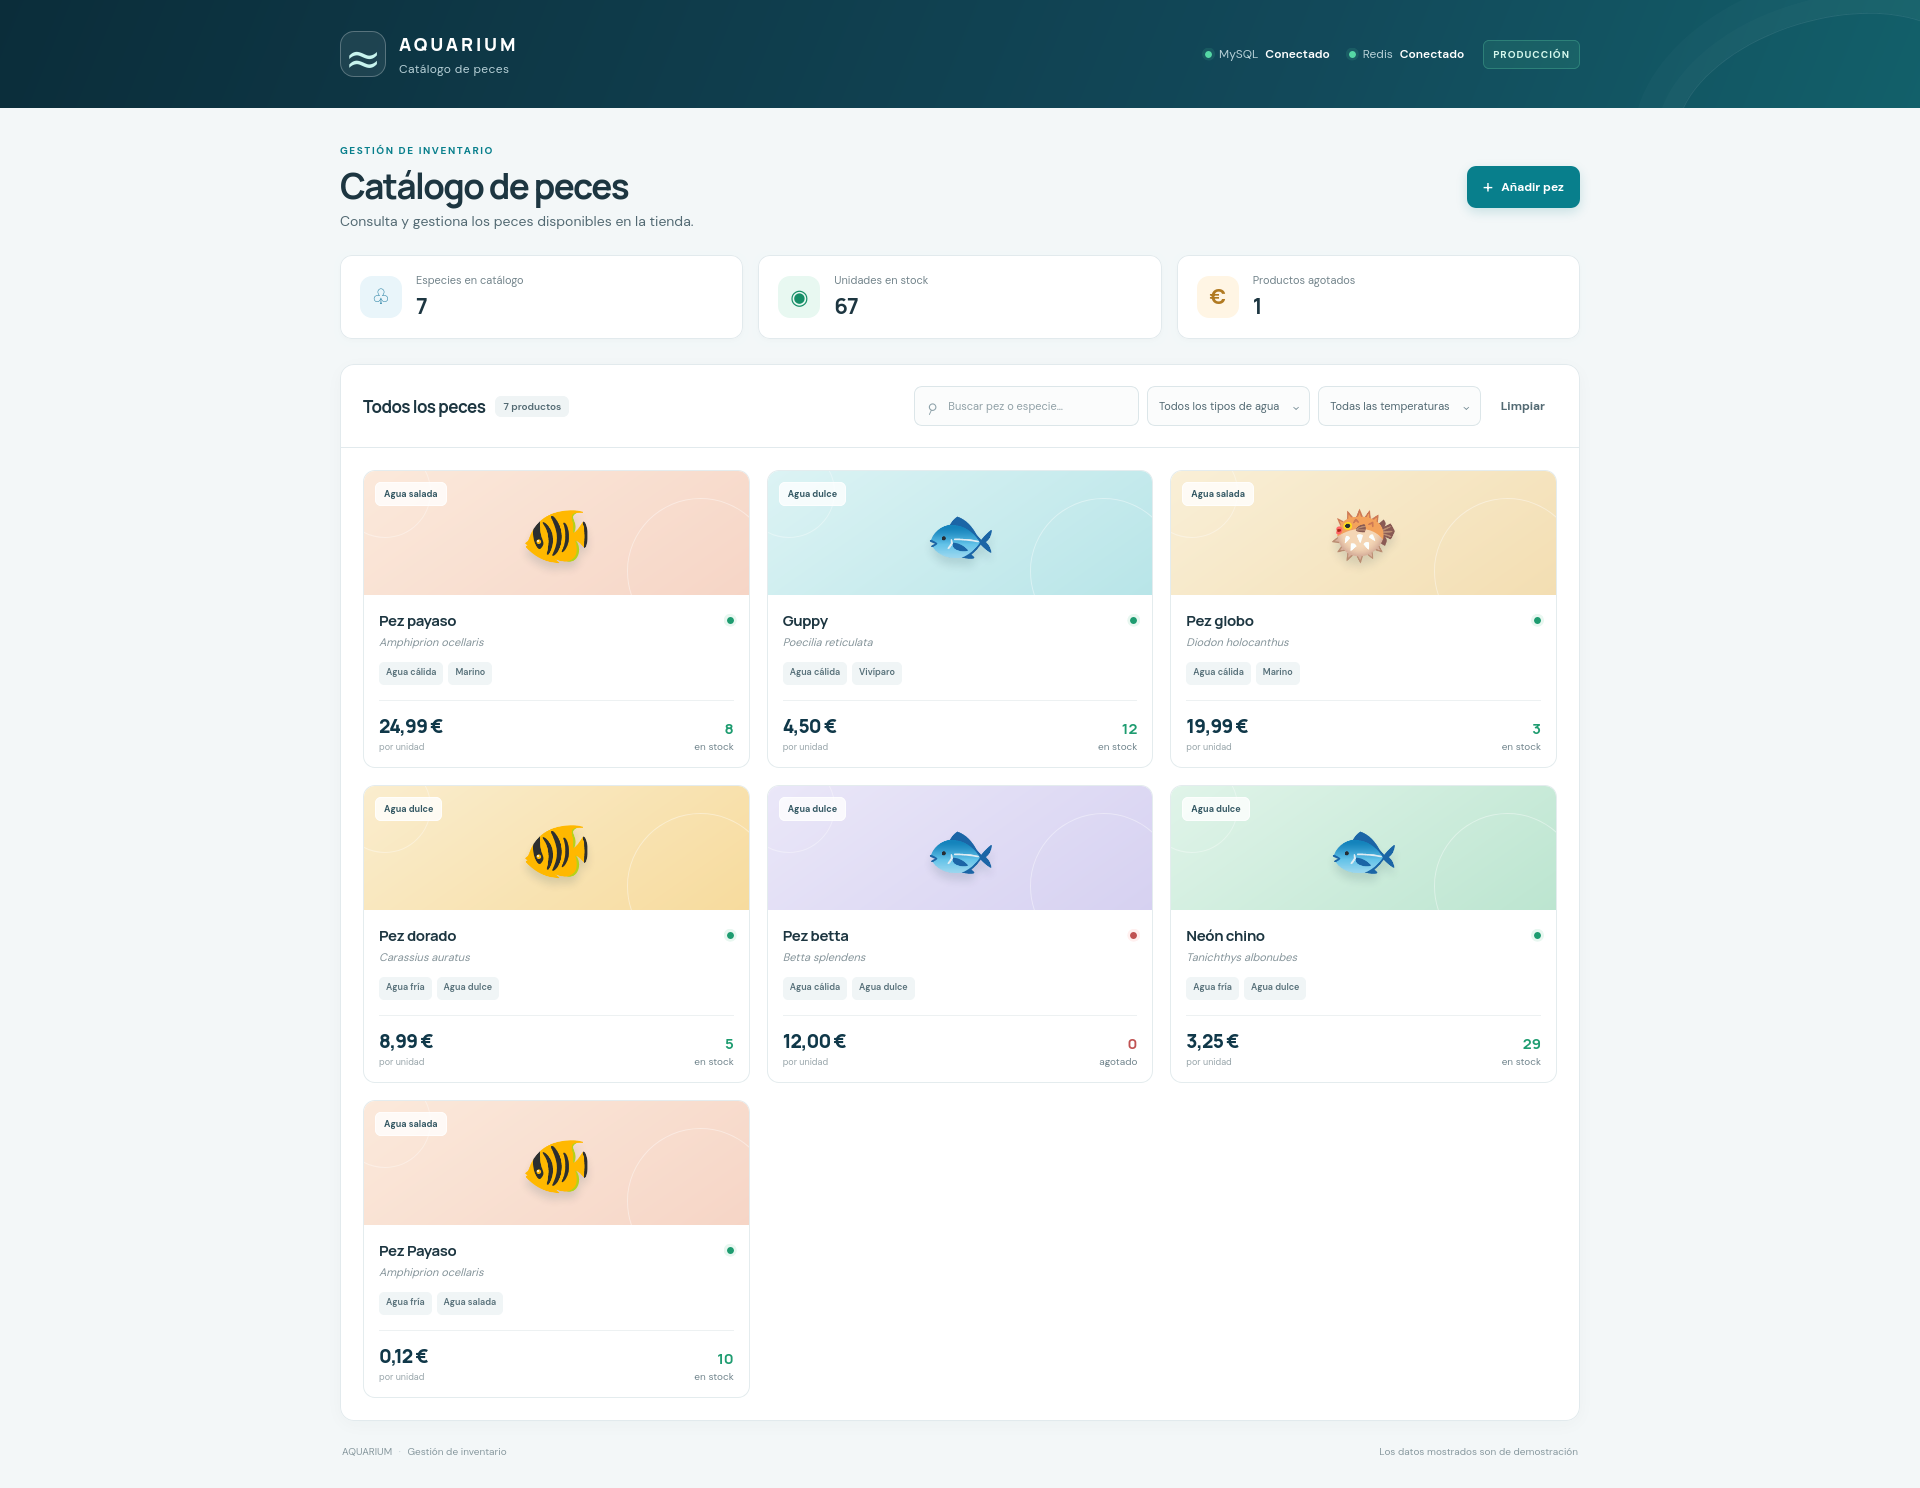
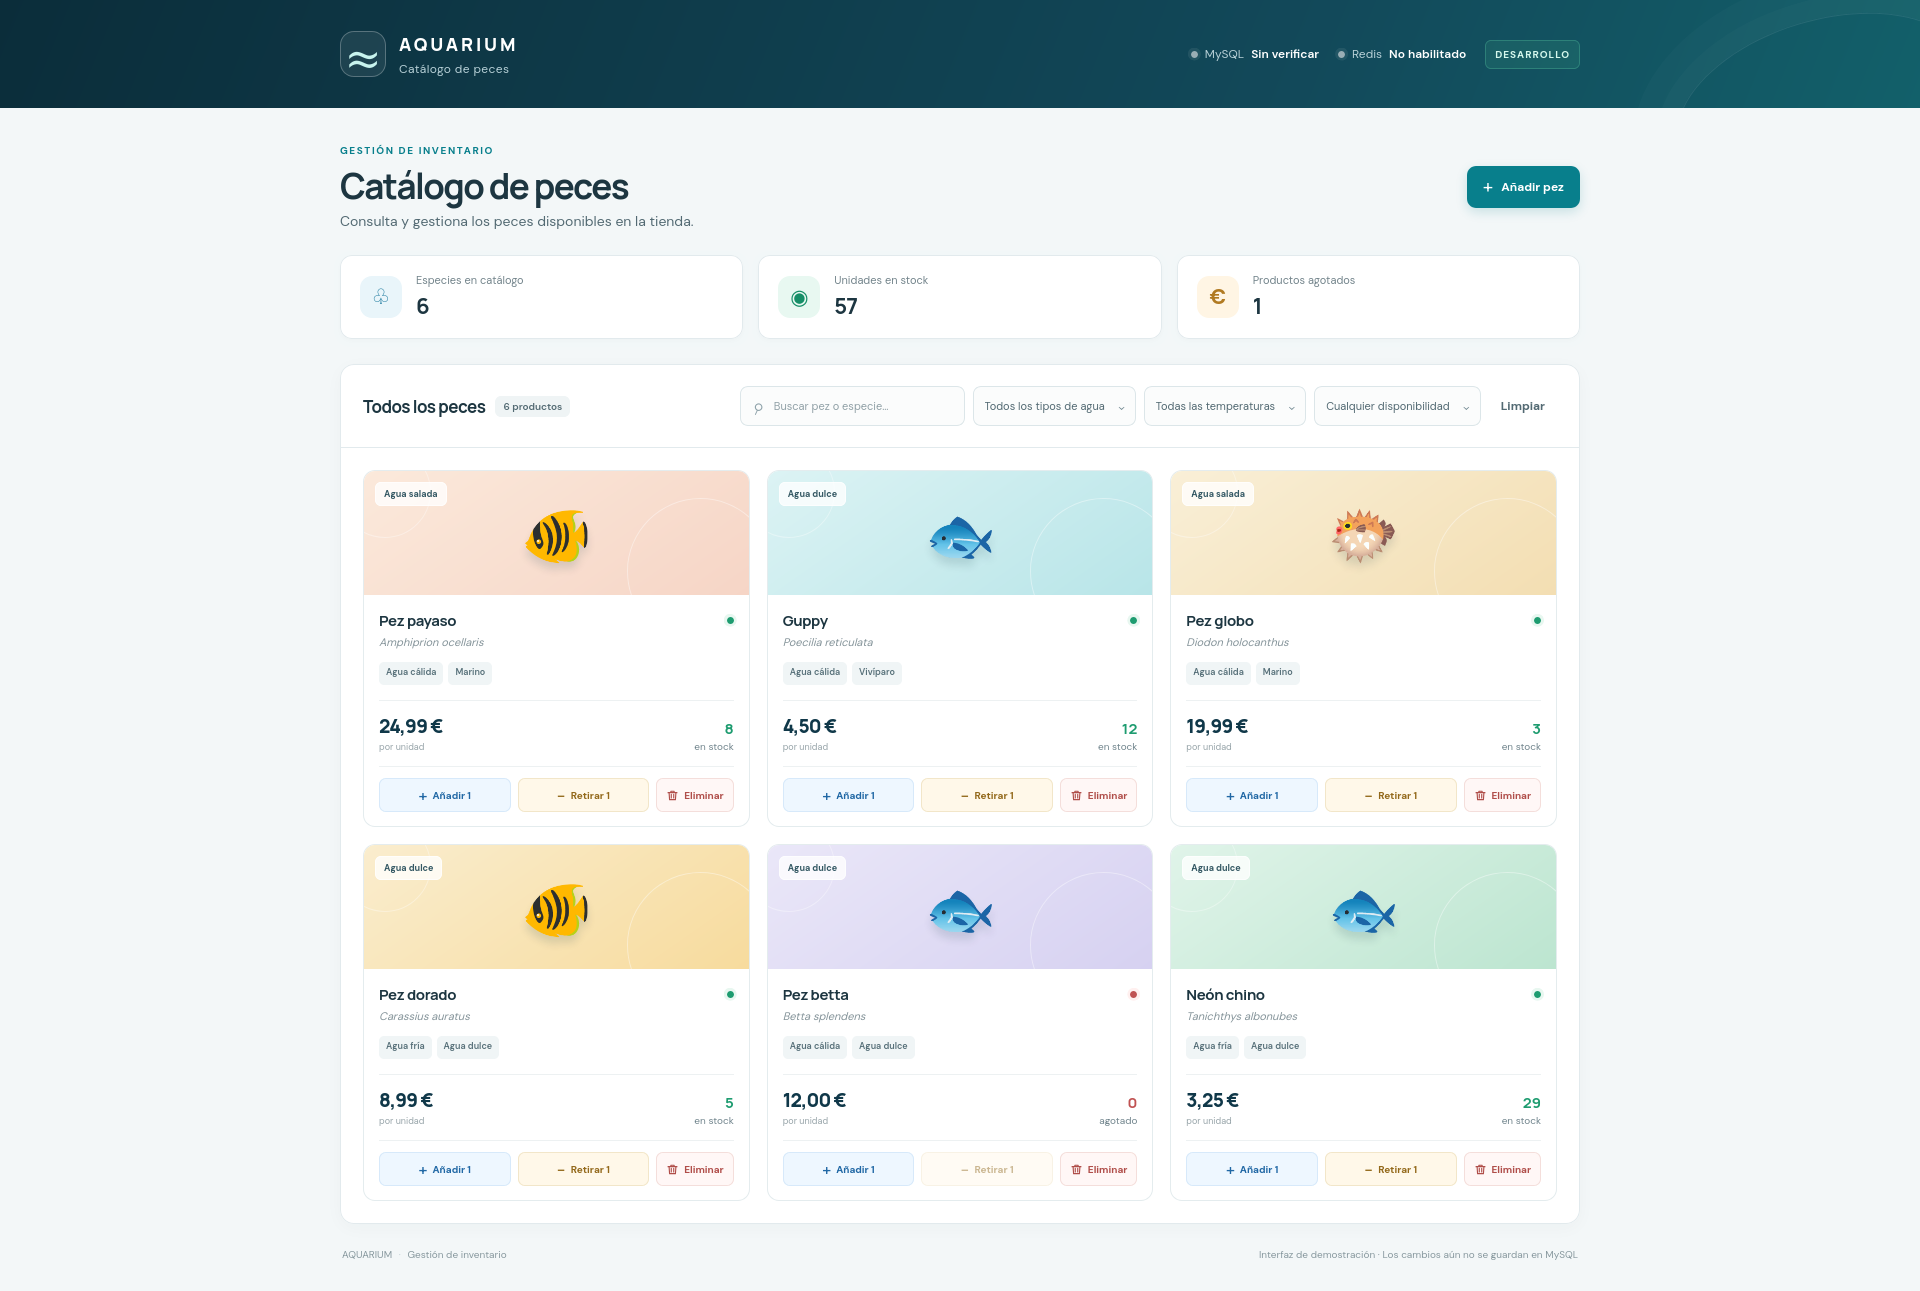
Added add and remove stock

diff --git a/Practica1/app/static/app.js b/Practica1/app/static/app.js
@@ -141,14 +141,22 @@
     const actions = document.createElement('div');
     actions.className = 'fish-card-actions';
 
+    const incrementButton = document.createElement('button');
+    incrementButton.className = 'stock-action stock-action--increase';
+    incrementButton.type = 'button';
+    incrementButton.dataset.action = 'increment-stock';
+    incrementButton.title = `Añadir una unidad de ${name} al stock`;
+    incrementButton.setAttribute('aria-label', `Añadir una unidad de ${name} al stock`);
+    incrementButton.innerHTML = '<span class="stock-action-symbol" aria-hidden="true">+</span><span>Añadir 1</span>';
+
     const decrementButton = document.createElement('button');
-    decrementButton.className = 'stock-action';
+    decrementButton.className = 'stock-action stock-action--decrease';
     decrementButton.type = 'button';
     decrementButton.dataset.action = 'decrement-stock';
     decrementButton.disabled = currentStock <= 0;
     decrementButton.title = `Registrar la salida de una unidad de ${name}`;
     decrementButton.setAttribute('aria-label', `Registrar baja de una unidad de ${name}`);
-    decrementButton.innerHTML = '<span class="stock-action-symbol" aria-hidden="true">−</span><span>1 unidad</span>';
+    decrementButton.innerHTML = '<span class="stock-action-symbol" aria-hidden="true">−</span><span>Retirar 1</span>';
 
     const deleteButton = document.createElement('button');
     deleteButton.className = 'delete-action';
@@ -158,7 +166,7 @@
     deleteButton.setAttribute('aria-label', `Eliminar la ficha completa de ${name} del catálogo`);
     deleteButton.innerHTML = '<svg viewBox="0 0 16 16" aria-hidden="true" focusable="false"><path d="M2.5 4.5h11M6 4.5V2.7h4v1.8m-6.2 0 .6 8.6h7.2l.6-8.6M6.5 6.5v4.5m3-4.5v4.5"/></svg><span>Eliminar</span>';
 
-    actions.append(decrementButton, deleteButton);
+    actions.append(incrementButton, decrementButton, deleteButton);
     content.append(actions);
   }
 
@@ -232,10 +240,18 @@
       dot.title = available ? 'Disponible' : 'Agotado';
     }
 
+    const name = cardName(card);
+    const incrementButton = card.querySelector('[data-action="increment-stock"]');
+    if (incrementButton) {
+      incrementButton.disabled = !Number.isSafeInteger(newStock);
+      incrementButton.title = `Añadir una unidad de ${name} al stock`;
+      incrementButton.setAttribute('aria-label', `Añadir una unidad de ${name} al stock`);
+    }
+
     const decrementButton = card.querySelector('[data-action="decrement-stock"]');
     if (decrementButton) {
       decrementButton.disabled = !available;
-      decrementButton.title = `Registrar la salida de una unidad de ${cardName(card)}`;
+      decrementButton.title = `Registrar la salida de una unidad de ${name}`;
     }
   }
 
@@ -246,18 +262,25 @@
     if (!card) return;
     const name = cardName(card);
 
-    if (button.dataset.action === 'decrement-stock') {
+    if (button.dataset.action === 'increment-stock') {
+      const stock = Number(card.dataset.stock || 0);
+      if (!Number.isSafeInteger(stock) || stock < 0 || stock >= Number.MAX_SAFE_INTEGER) {
+        showToast('No se puede aumentar más el stock de este producto.');
+        return;
+      }
+      setCardStock(card, stock + 1);
+      applyFilters();
+      showToast(`Stock de ${name} aumentado en una unidad. El cambio aún no se ha guardado en MySQL.`);
+    } else if (button.dataset.action === 'decrement-stock') {
       const stock = Number(card.dataset.stock || 0);
       if (stock <= 0) {
         showToast(`${name} ya está agotado.`);
         return;
       }
-      if (!window.confirm(`¿Registrar la salida de una unidad de «${name}» por venta o pérdida?`)) return;
       setCardStock(card, stock - 1);
       applyFilters();
-      showToast(`Stock de ${name} actualizado en la demostración. Aún no se ha guardado en MySQL.`);
+      showToast(`Stock de ${name} reducido en una unidad. El cambio aún no se ha guardado en MySQL.`);
     } else if (button.dataset.action === 'delete-fish') {
-      if (!window.confirm(`¿Eliminar por completo la ficha de «${name}» del catálogo? Esta acción no equivale a restar una unidad del stock.`)) return;
       card.remove();
       applyFilters();
       showToast(`Ficha de ${name} eliminada de la demostración. Aún no se ha eliminado de MySQL.`);

diff --git a/Practica1/app/static/style.css b/Practica1/app/static/style.css
@@ -247,7 +247,7 @@ h1 { margin-bottom: 7px; font-size: clamp(27px, 3.3vw, 35px); letter-spacing: -.
   *, *::before, *::after { animation-duration: .01ms !important; animation-iteration-count: 1 !important; scroll-behavior: auto !important; transition-duration: .01ms !important; }
 }
 
-/* Acciones de inventario: registrar una baja de una unidad o eliminar toda la ficha. */
+/* Acciones de inventario: aumentar/reducir stock o eliminar toda la ficha. */
 .fish-card-actions {
   display: flex;
   align-items: center;
@@ -272,7 +272,7 @@ h1 { margin-bottom: 7px; font-size: clamp(27px, 3.3vw, 35px); letter-spacing: -.
   transition: background .16s ease, border-color .16s ease, color .16s ease;
 }
 .stock-action {
-  flex: 1 1 82px;
+  flex: 1 1 72px;
   background: #edf8f7;
   border-color: #d8eeeb;
   color: #087b79;
@@ -280,6 +280,24 @@ h1 { margin-bottom: 7px; font-size: clamp(27px, 3.3vw, 35px); letter-spacing: -.
 .stock-action:hover:not(:disabled) {
   background: #dff2ef;
   border-color: #b7e2dc;
+}
+.stock-action--increase {
+  background: #eef7ff;
+  border-color: #d7e9fa;
+  color: #2168a5;
+}
+.stock-action--increase:hover:not(:disabled) {
+  background: #e0efff;
+  border-color: #bddcf7;
+}
+.stock-action--decrease {
+  background: #fff8e9;
+  border-color: #f2e6c9;
+  color: #93691b;
+}
+.stock-action--decrease:hover:not(:disabled) {
+  background: #fff1d4;
+  border-color: #ead7aa;
 }
 .stock-action:disabled {
   cursor: not-allowed;
@@ -312,5 +330,5 @@ h1 { margin-bottom: 7px; font-size: clamp(27px, 3.3vw, 35px); letter-spacing: -.
 
 @media (max-width: 760px) {
   .fish-card-actions { gap: 6px; margin-top: 11px; padding-top: 9px; }
-  .stock-action, .delete-action { min-height: 32px; padding-inline: 7px; font-size: 9px; }
+  .stock-action, .delete-action { min-height: 32px; padding-inline: 6px; font-size: 9px; }
 }
